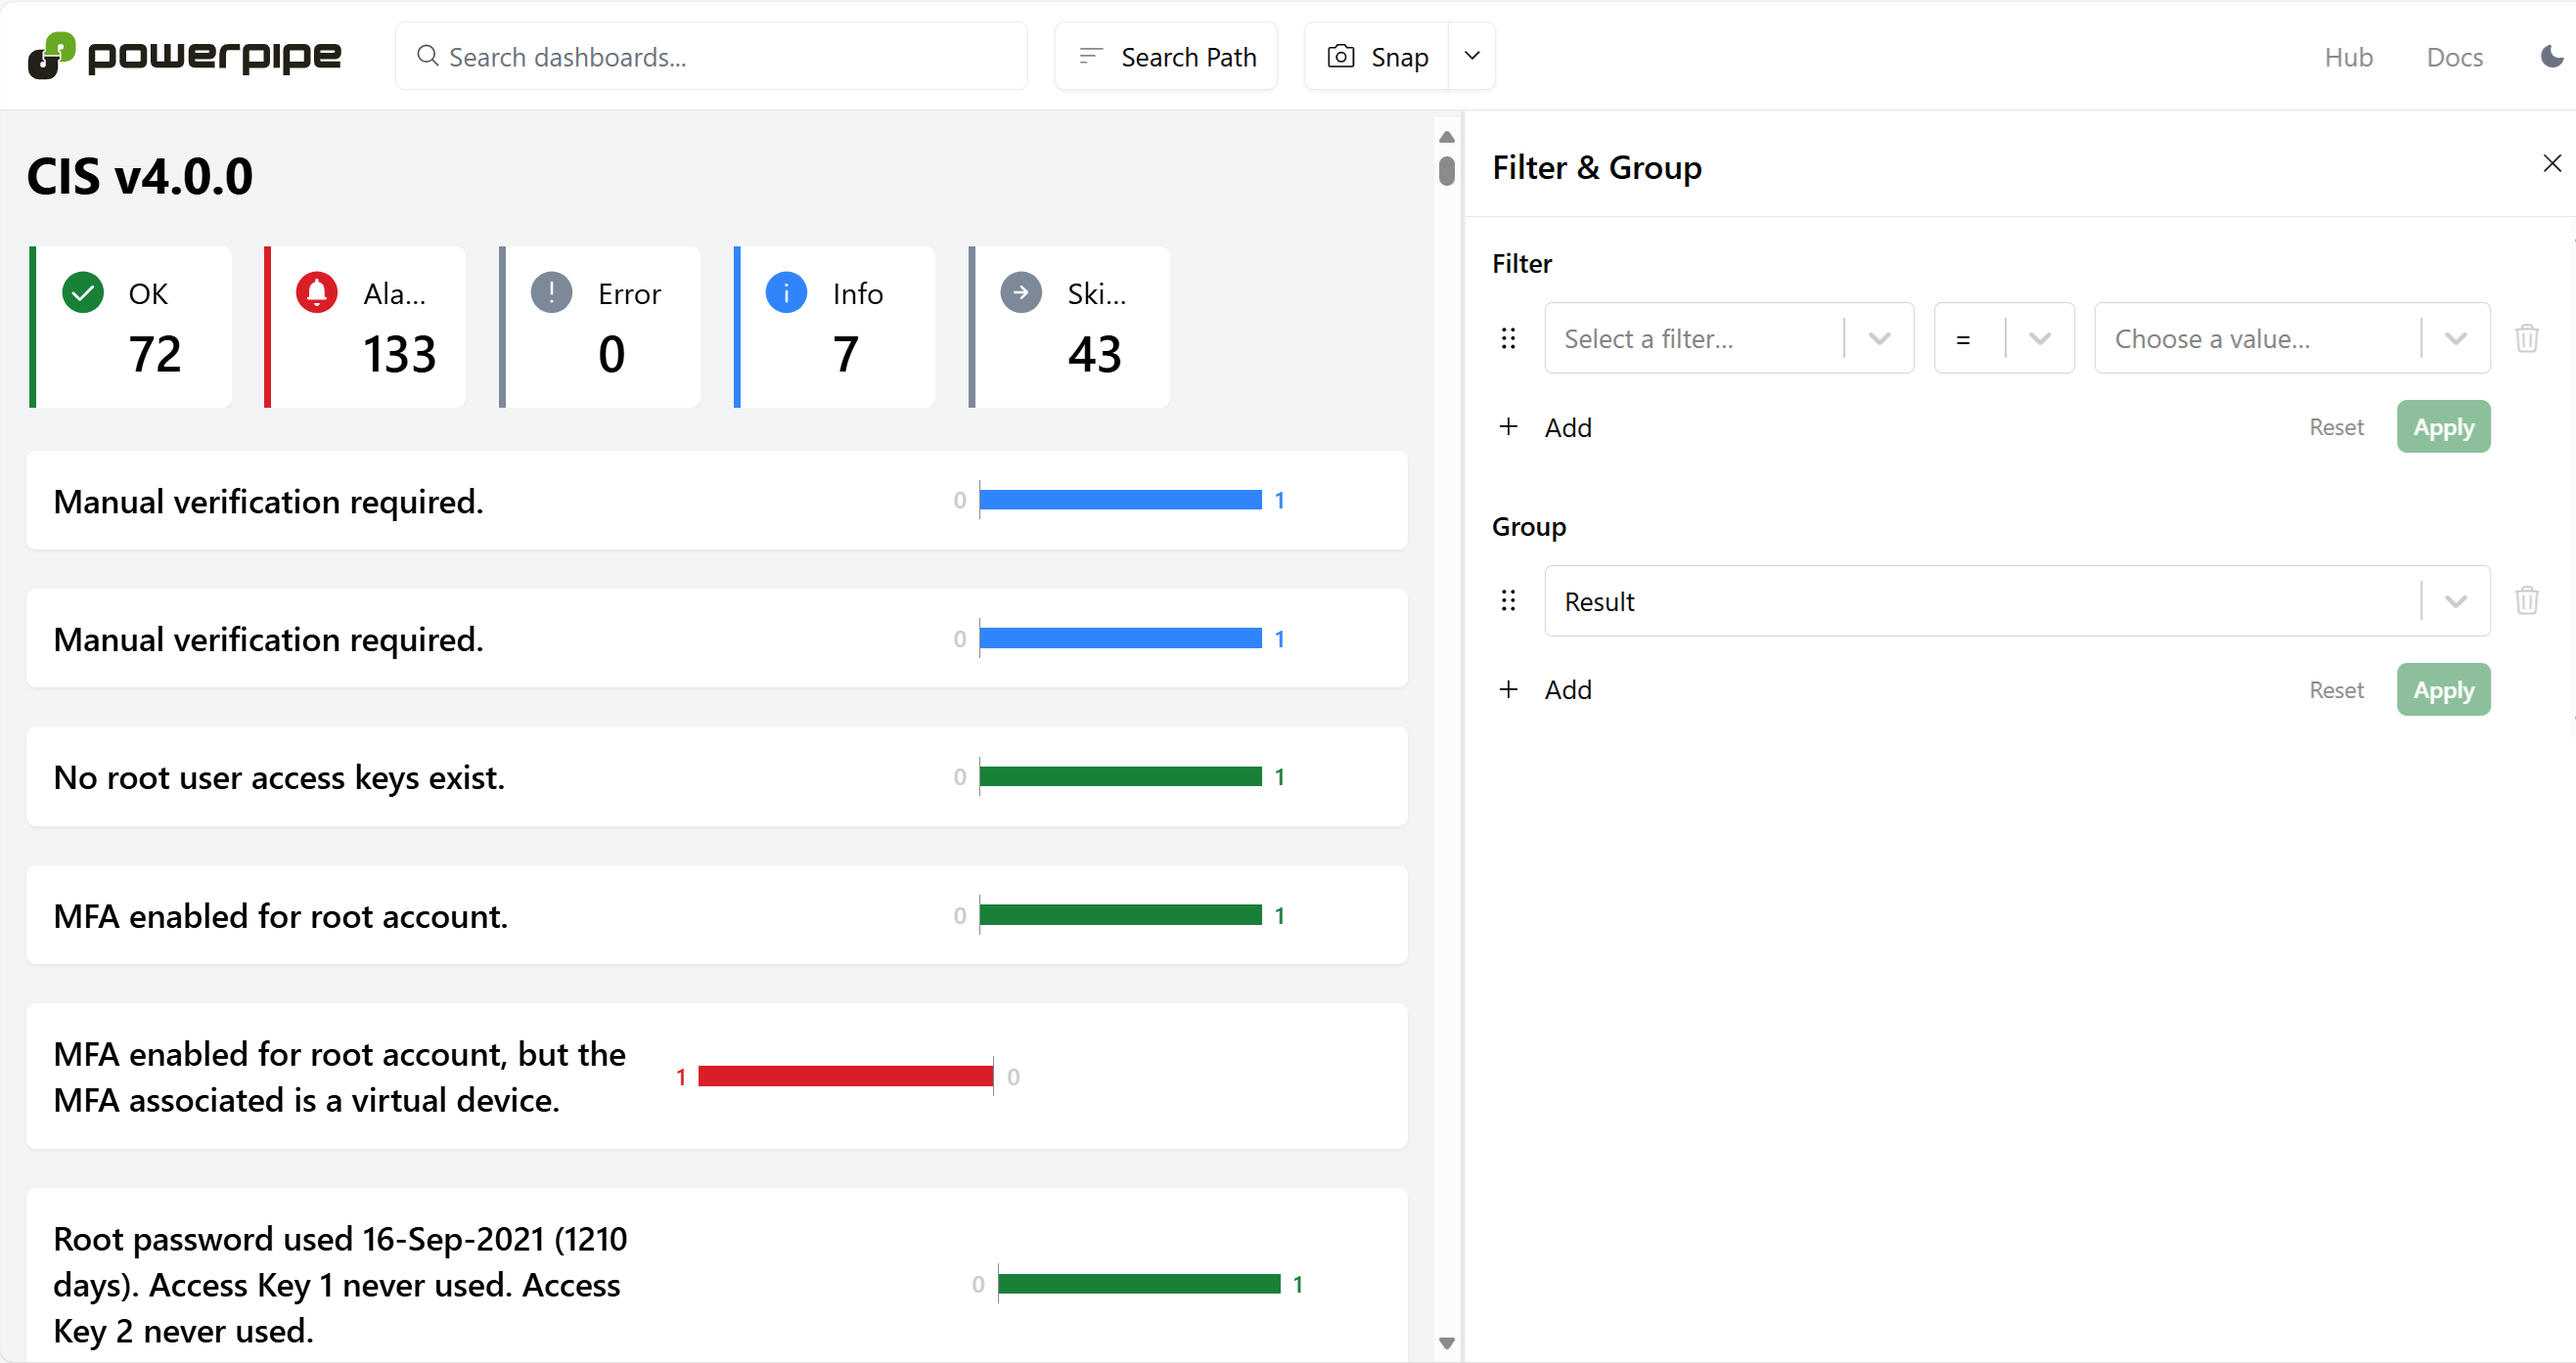
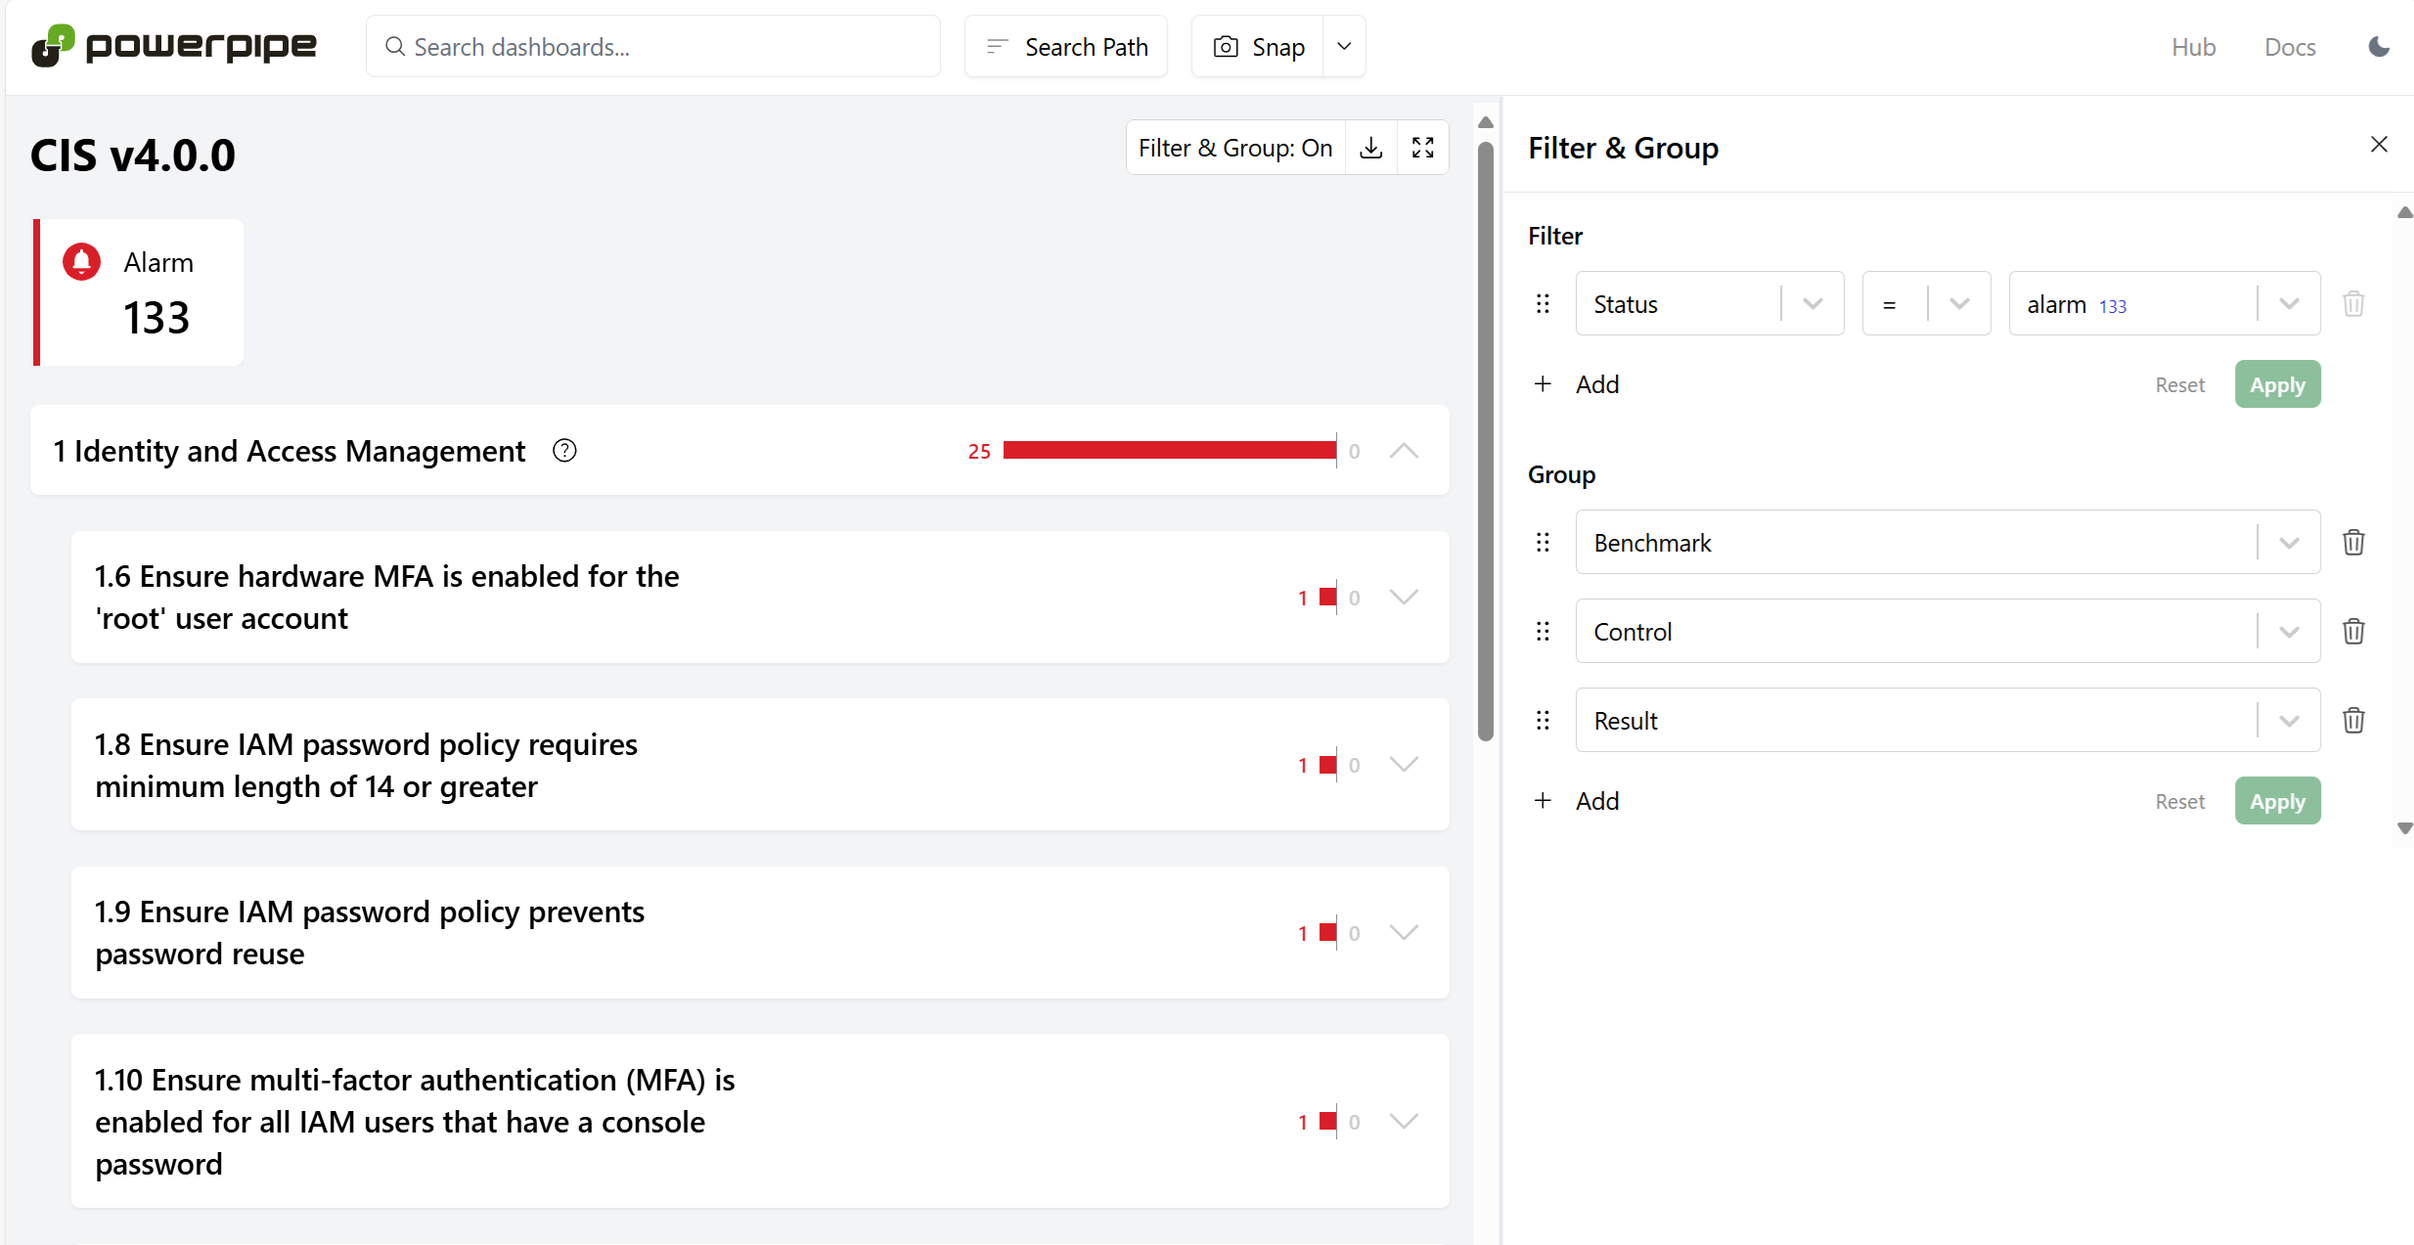
revise filter/group

diff --git a/docs/run/dashboard/filter-group.md b/docs/run/dashboard/filter-group.md
@@ -3,14 +3,36 @@ title: Filter & Group
 ---
 
 
-# Filter & Group
+# Filter & group
 
-When a dashboard displays compliance benchmarks, the **Filter & Group** button enables you to adjust the hierarchy of benchmarks and controls. The default hierarchy is **Benchmark / Control / Result**, but here the **Group** control is used to flatten the view to results only.
+When a dashboard displays benchmarks, the **Filter & Group** button enables you to filter which controls/detections are shown.
+
+Here we filter the CIS v4.0.0 benchmark to just controls in the **Alarm** state.
 
 ![](/images/docs/run/view/filter-group-controls-1.png)
 
-You can further restrict the view by setting the **Filter** to only results where the **Status** is **Alarm**.
-
+We can also adjust the hierarchy. For compliance benchmarks the grouping is **Benchmark / Control  / Result**, but here we show only the **Result** group.
 
 ![](/images/docs/run/view/filter-group-controls-2.png)
 
+Similarly, we can filter the Cloudtrail Log Detections benchmark to just detections related to one MITRE attack id.
+
+![](/images/docs/run/view/filter-group-detections-1.png)
+
+
+And again we can adjust the hierarchy. The default is **Benchmark / Detection / Result** but we can flatten to just **Detection / Result**.
+
+![](/images/docs/run/view/filter-group-detections-2.png)
+
+## Row-level filtering
+
+>[!NOTE]
+> tailpipe only?
+
+When a dashboard displays tablular data, you can filter on a per-row basis too. You can include only rows that match the value shown in a column.
+
+![](/images/docs/run/view/row-level-filter-1.png)
+
+Alternatively, you can exclude raws that match the value shown in a column.
+
+![](/images/docs/run/view/row-level-filter-2.png)

diff --git a/docs/run/dashboard/search-path.md b/docs/run/dashboard/search-path.md
@@ -2,6 +2,9 @@
 title: Change the Search Path
 ---
 
+> [!NOTE]
+> out of scope for tailpipe in lw7? if so should the search_path button go away for tp dashboards?
+
 # Change the Postgres Search Path
 
 Many Powerpipe mods use [Steampipe](http://steampipe.io) as the database.  Steampipe leverages PostgreSQL foreign data wrappers to provide an SQL interface to external services and systems. 
